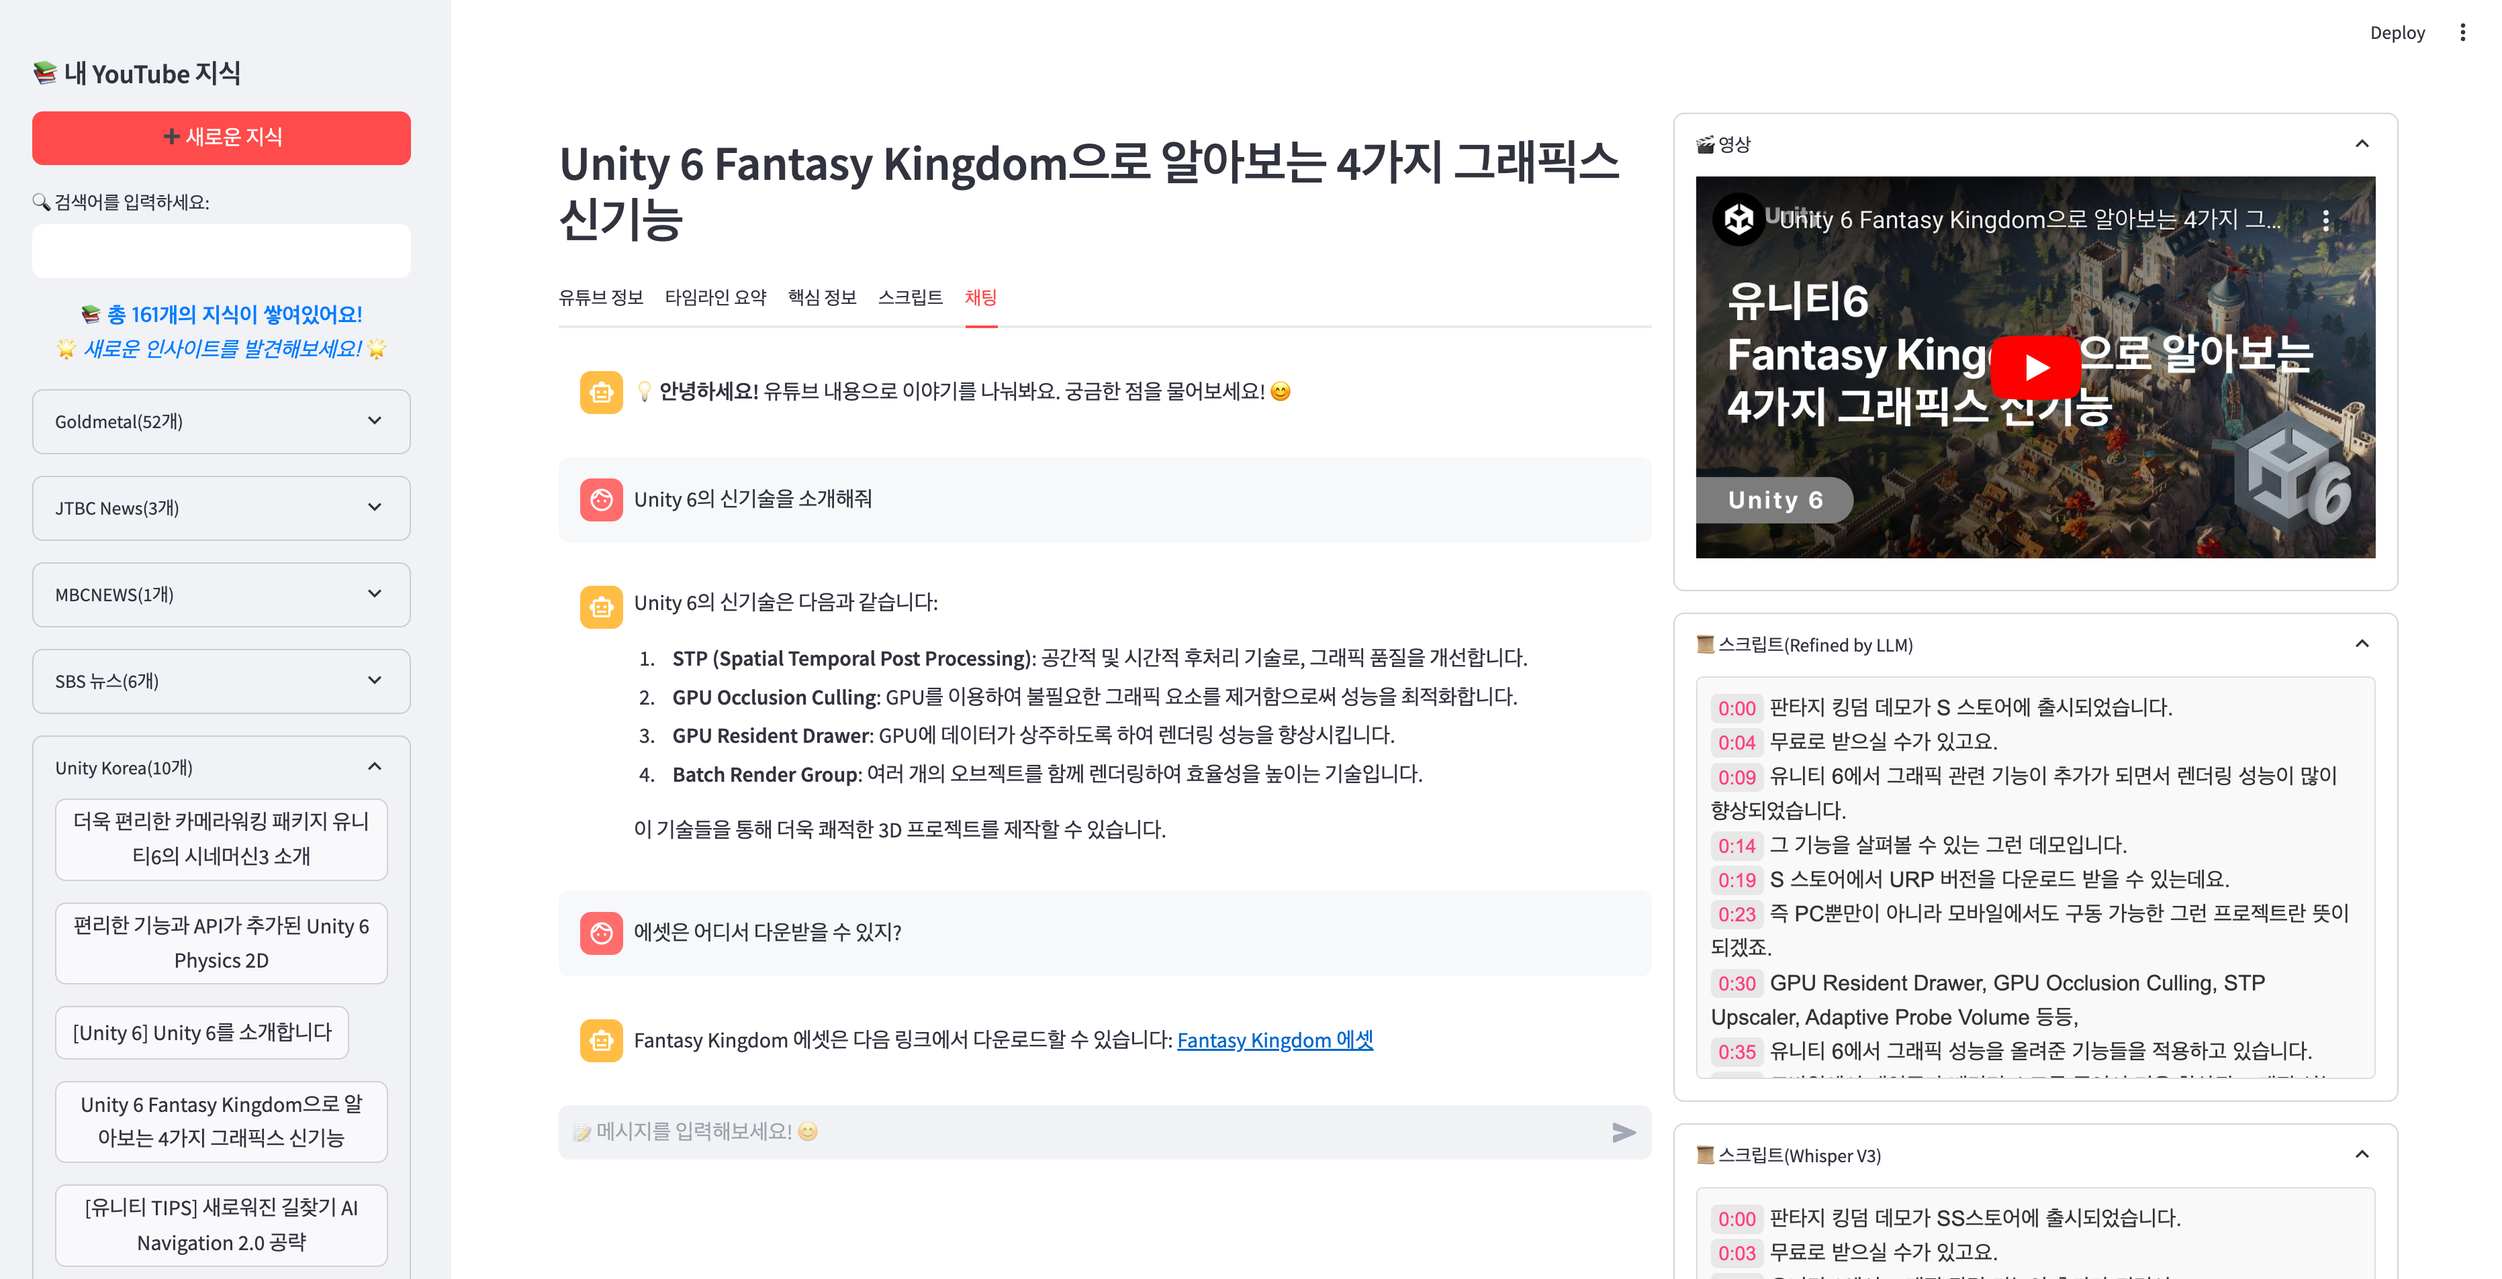
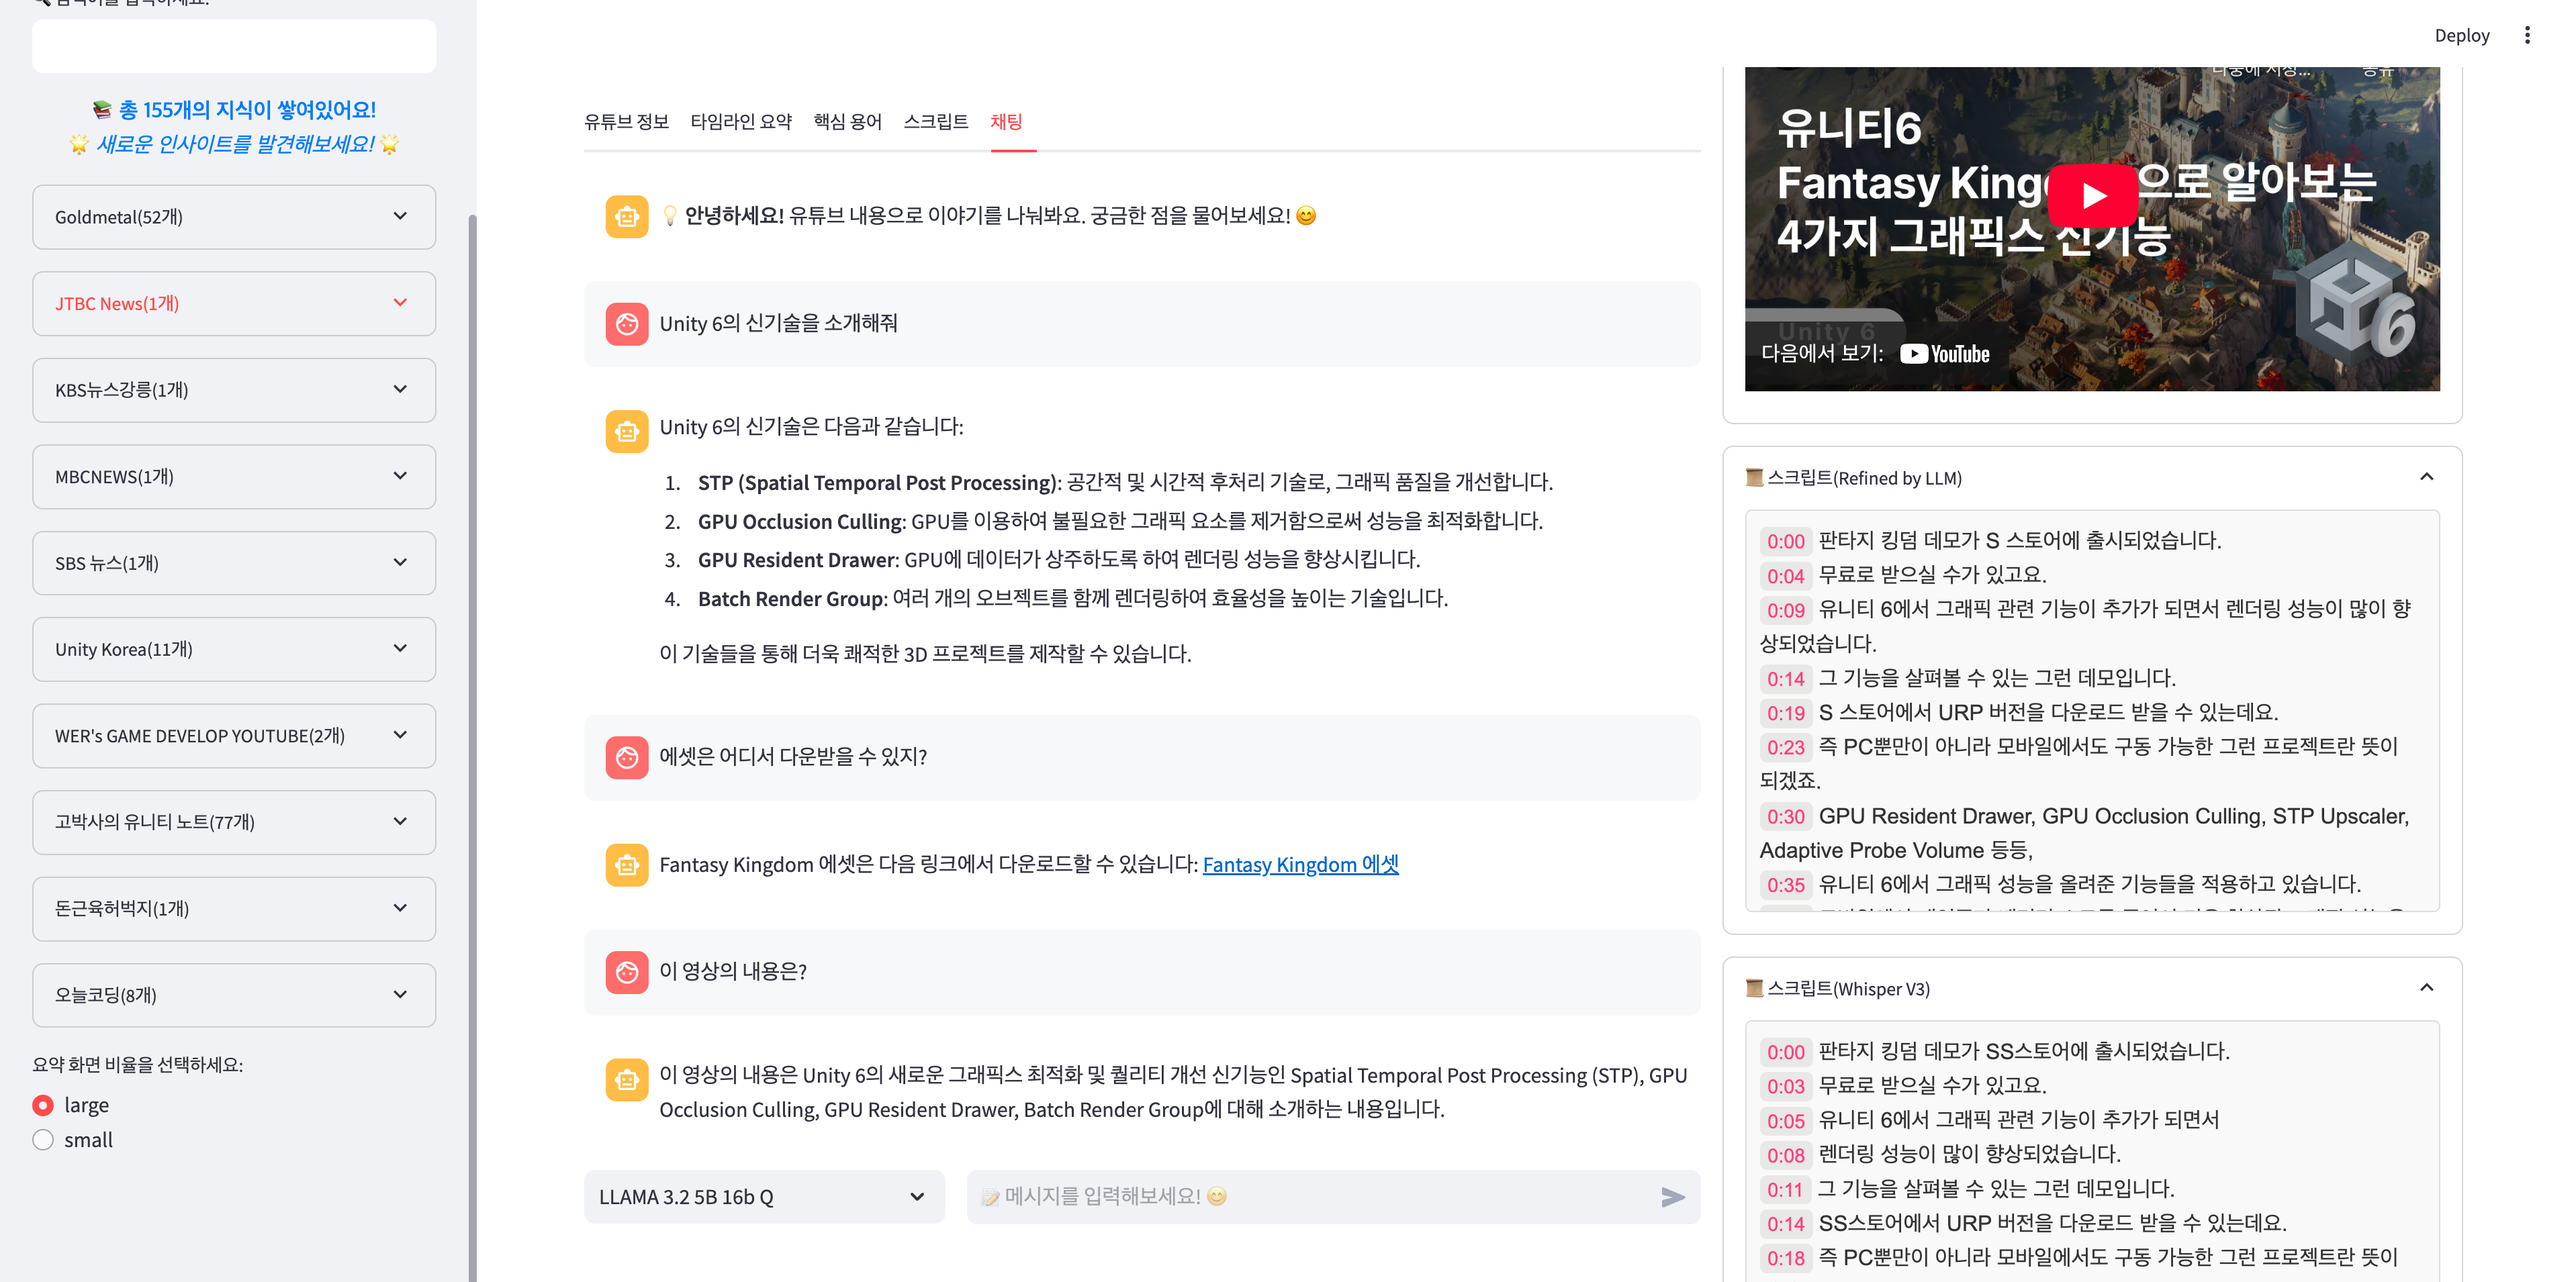
readme 스크린샷 수정

diff --git a/readme.md b/readme.md
@@ -20,8 +20,10 @@
     -  키워드 설명: [인스트럭션 튜닝(facebook/opt-350m)](https://github.com/adunStudio/hanghae99_plusAI_2/blob/main/7%EC%A3%BC%EC%B0%A8_%EC%8B%AC%ED%99%94/train.py)
 
 ### 8주차
-- [ ]  **핵심 용어 모음집 생성 기능 통계 / 로컬 LLM 적용**
+- [x]  **채팅: 로컬 LLM 적용**
     - 한 푼이라도 아끼자!
+    - [Bllossom/llama-3.2-Korean-Bllossom-AICA-5B]https://huggingface.co/Bllossom/llama-3.2-Korean-Bllossom-AICA-5B)
+    - 양자화: [LLaMA 양자화 비교](https://github.com/adunStudio/hanghae99_plusAI_2/tree/main/8_advanced)
 - [ ]  **프롬프트 최적화를 통한 최고의 요약 생성**
     - 프롬프트 엔지니어링을 통해 요약 품질을 극대화하고 효율적인 응답 생성 전략 개발.
 ---
